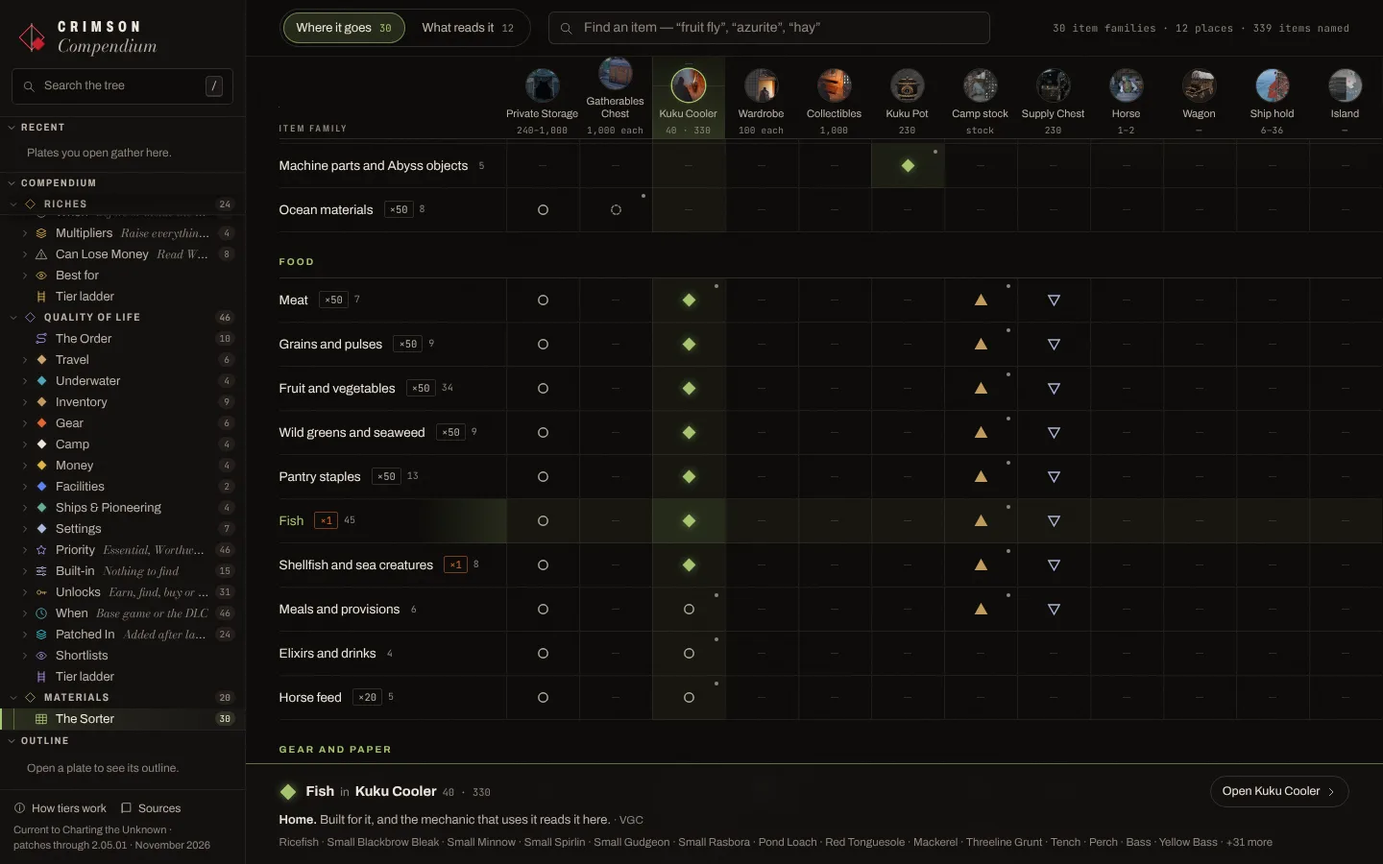
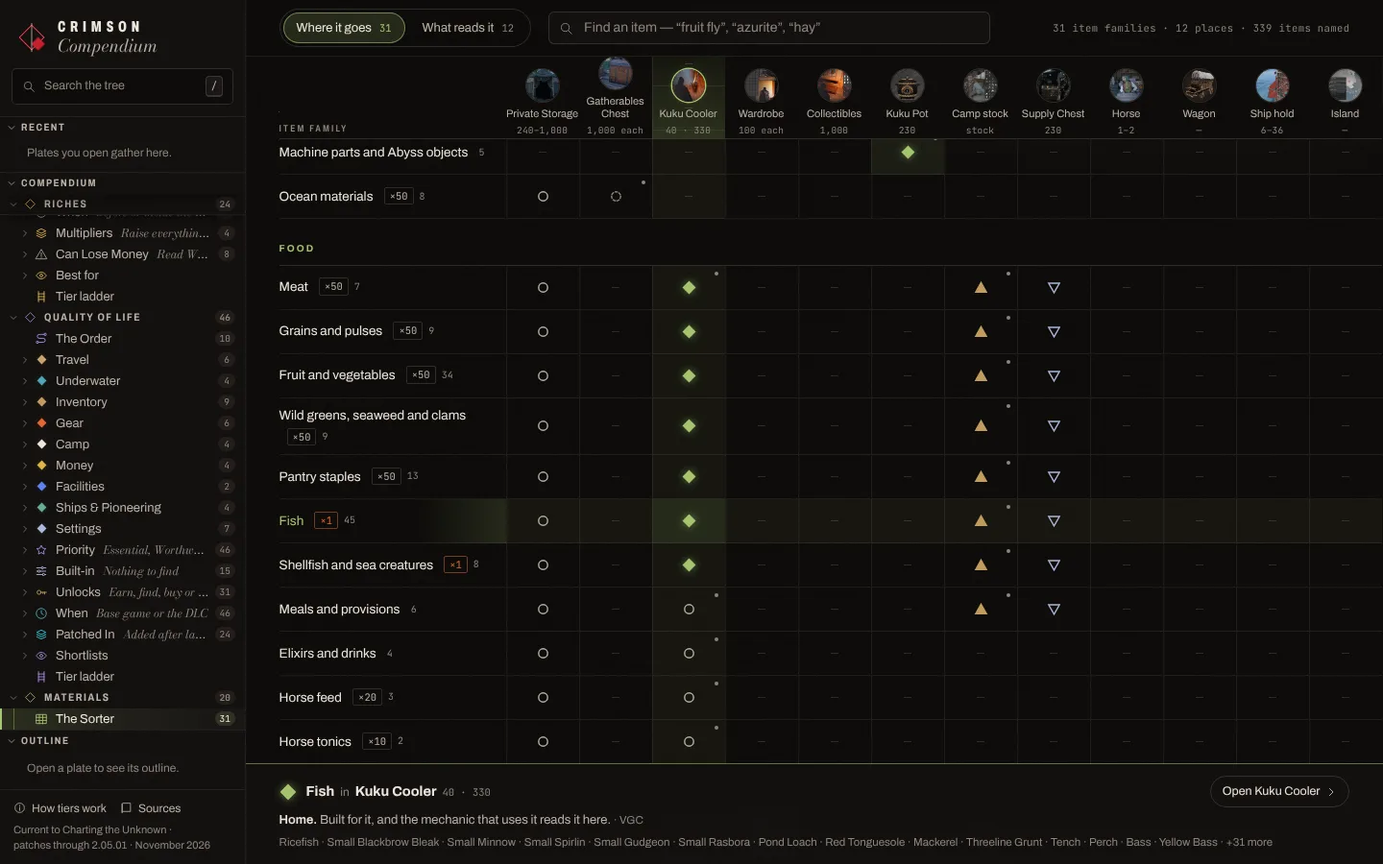
Fix review findings on the Materials tree
- A click now pins a Sorter cell: keyboard focus pins, a mouse click toggles.
- An item picked in the palette opens the Sorter on the sheet that names it,
  even when the reader was on a sheet with no items.
- The palette offers item families by name as well as their items.
- Refused families leave a store's shelves for a "Won't go in" list.
- Stacks: per-item stacks where an item differs (Azurite 49, Abyss
  Artifacts 10); horse tonics (10) split from horse feed (20); the Horse
  Feed plate lists grains and fruit too. Gamer Guides confirms mushrooms
  stack to 50 and lists 8 shellfish (the Razor Clam stacks to 50); the
  research notes are corrected.
- Recent and the explorer filter count tell same-id plates apart.
- Search answers and shelves shrink to a 320 px phone.
- verify compares every matrix row, column and mark, and the phone cards,
  against the data, and checks the pin and the palette hand-off from a
  sheet with no items.

Claude-Session: https://claude.ai/code/session_01CDNBdZ3zCesRifz13JDxvR

diff --git a/src/branches/materials/MaterialsManifest.svelte b/src/branches/materials/MaterialsManifest.svelte
@@ -50,13 +50,16 @@
   const readHere = $derived(readBy.filter((x) => x.mark === 'draw'));
   const readOther = $derived(readBy.filter((x) => x.mark !== 'draw'));
 
-  // the shelves: every family the Sorter puts here, grouped by mark in the legend's order
+  // the shelves: every family the Sorter puts here, grouped by mark in the legend's order. A family a source
+  // says is refused is not on a shelf: it is listed apart, with why
   const shelves = $derived.by(() => {
     if (!col || !where || !m) return [];
     return m.marks
+      .filter((mk) => mk.id !== 'no')
       .map((mk) => ({ mark: mk, rows: where.rows.filter((r) => markOf(r.cells[col.id]) === mk.id) }))
       .filter((s) => s.rows.length);
   });
+  const refused = $derived(col && where ? where.rows.filter((r) => markOf(r.cells[col.id]) === 'no') : []);
   // a supply's own families, each with every place that keeps them
   const supplies = $derived.by(() => {
     if (col || !where || !m || !man?.rows?.length) return [];
@@ -194,7 +197,7 @@
                       {#if noteOf(cell) ?? r.note}<p class="fn">{noteOf(cell) ?? r.note}</p>{/if}
                       {#if items.length}
                         <ul class="items">
-                          {#each all ? items : items.slice(0, CAP) as it (it)}<li class:lit={!!t && norm(it).includes(t)}>{it}</li>{/each}
+                          {#each all ? items : items.slice(0, CAP) as it (it)}<li class:lit={!!t && norm(it).includes(t)}>{it}{#if r.stackOf?.[it]}<span class="ist mono" class:hog={r.stackOf[it] === 1}>×{r.stackOf[it]}</span>{/if}</li>{/each}
                           {#if !all && items.length > CAP}
                             <li class="more"><button type="button" onclick={() => (open[r.id] = true)}>+{items.length - CAP} more</button></li>
                           {/if}
@@ -209,6 +212,18 @@
           {#if t && !matched && !shelves.some((s) => s.rows.some(hit))}
             <p class="miss">Nothing by that name goes in {entry.name}. <a href={href.matrix(branch)}>Ask the Sorter</a> where it does.</p>
           {/if}
+        </div>
+      {/if}
+
+      {#if refused.length}
+        <div class="block">
+          <p class="eyebrow">Won't go in</p>
+          <ul class="refused">
+            {#each refused as r (r.id)}
+              {@const cell = r.cells[col.id]}
+              <li><Mark id="no" size={14} /><span class="fl">{r.label}</span>{#if noteOf(cell)}<span class="rn">{noteOf(cell)}</span>{/if}<span class="by">{pub(byOf(r, cell))}</span></li>
+            {/each}
+          </ul>
         </div>
       {/if}
 
@@ -246,7 +261,7 @@
                 <span class="fl">{s.row.label}</span>
                 {#if s.row.stack}<span class="st mono" class:hog={s.row.stack === 1}>{stackTxt(s.row)}</span>{/if}
               </div>
-              {#if s.row.items?.length}<ul class="items">{#each s.row.items as it (it)}<li>{it}</li>{/each}</ul>{/if}
+              {#if s.row.items?.length}<ul class="items">{#each s.row.items as it (it)}<li>{it}{#if s.row.stackOf?.[it]}<span class="ist mono">×{s.row.stackOf[it]}</span>{/if}</li>{/each}</ul>{/if}
               {#if s.at.length}
                 <ul class="kept">
                   {#each s.at as a (a.col.id)}
@@ -401,13 +416,11 @@
   .shelf-head :global(.mk) { align-self: center; }
   .shelf-head b { font-size: 12px; letter-spacing: 0.14em; text-transform: uppercase; color: var(--bone); font-weight: 600; }
   .shelf[data-mark='home'] .shelf-head b { color: var(--accent); }
-  .shelf[data-mark='no'] .shelf-head b { color: var(--ember); }
   .shelf-head span { font-size: 12.5px; color: var(--ash); }
-  .fams { display: grid; grid-template-columns: repeat(auto-fill, minmax(280px, 1fr)); gap: 10px; margin-bottom: 8px; }
+  .fams { display: grid; grid-template-columns: repeat(auto-fill, minmax(min(100%, 280px), 1fr)); gap: 10px; margin-bottom: 8px; }
   .fams > li { padding: 10px 12px 12px; background: var(--ink-1); border: 1px solid var(--line); animation: up 520ms var(--ease-out) both; animation-delay: calc(var(--i) * 40ms); min-width: 0; }
   .shelf[data-mark='home'] .fams > li { border-color: color-mix(in srgb, var(--accent) 35%, var(--line)); box-shadow: inset 2px 0 0 var(--accent); }
   .shelf[data-mark='unk'] .fams > li { border-style: dashed; }
-  .shelf[data-mark='no'] .fams > li { border-color: color-mix(in srgb, var(--ember) 40%, var(--line)); }
   .fam { display: flex; align-items: baseline; gap: 8px; }
   .fl { font-size: 14px; color: var(--bone); flex: 1; min-width: 0; }
   .st { font-size: 11px; color: var(--bone-2); padding: 1px 5px; border: 1px solid var(--line-2); }
@@ -417,6 +430,15 @@
   .items { display: flex; flex-wrap: wrap; gap: 4px; margin-top: 8px; }
   .items li { font-size: 11.5px; line-height: 1; padding: 4px 7px; border: 1px solid var(--line); color: var(--bone-2); white-space: nowrap; }
   .items li.lit { color: var(--ink-0); background: var(--accent); border-color: var(--accent); }
+  .ist { margin-left: 5px; font-size: 10px; color: var(--ash); }
+  .ist.hog { color: var(--ember); }
+  .items li.lit .ist { color: inherit; }
+  .refused { display: flex; flex-direction: column; gap: 8px; }
+  .refused li { display: grid; grid-template-columns: 16px minmax(0, 1fr) auto; grid-template-areas: 'm l b' '. n n'; gap: 2px 10px; align-items: center; padding: 10px 12px; border: 1px solid color-mix(in srgb, var(--ember) 40%, var(--line)); background: var(--ink-1); }
+  .refused li :global(.mk) { grid-area: m; }
+  .refused .fl { grid-area: l; }
+  .refused .rn { grid-area: n; }
+  .refused .by { grid-area: b; }
   .items .more { padding: 0; border: 0; }
   .items .more button { font: inherit; font-size: 11.5px; padding: 4px 7px; border: 1px dashed var(--line-2); background: none; color: var(--accent); cursor: pointer; }
   .items .more button:hover { border-color: var(--accent); }

diff --git a/src/ui/Matrix.svelte b/src/ui/Matrix.svelte
@@ -7,7 +7,7 @@
   import { app } from '../core/state.svelte';
   import { href, mediaUrl } from '../core/tree';
   import { PUBLISHERS } from '../core/format';
-  import type { Branch, MatrixCell, MatrixCol, MatrixRow } from '../core/types';
+  import type { Branch, MatrixCell, MatrixCol, MatrixRow, MatrixSheet } from '../core/types';
   import Glyph from './Glyph.svelte';
   import Mark from './Mark.svelte';
 
@@ -20,9 +20,19 @@
   const searchable = $derived(sheet.rows.some((r) => r.items?.length));
   const itemCount = $derived(sheet.rows.reduce((n, r) => n + (r.items?.length ?? 0), 0));
 
-  // the palette can hand over an item to look up; take it once
+  // the palette can hand over an item to look up; take it once, on the sheet that names it (the reader may
+  // be on a sheet with no items, and this view stays mounted while the branch does)
   let q = $state(app.matrixQuery);
-  $effect(() => { if (app.matrixQuery) { q = app.matrixQuery; app.matrixQuery = ''; } });
+  $effect(() => {
+    const want = app.matrixQuery;
+    if (!want) return;
+    const named = (sh: MatrixSheet) => sh.rows.some((r) => r.items?.some((i) => norm(i) === norm(want)));
+    const withItems = (sh: MatrixSheet) => sh.rows.some((r) => r.items?.length);
+    const target = m.sheets.find(named) ?? m.sheets.find(withItems);
+    if (target && target.id !== sheet.id) sheetId = target.id;
+    q = want;
+    app.matrixQuery = '';
+  });
 
   const markOf = (c?: MatrixCell) => (!c ? '' : typeof c === 'string' ? c : c.mark);
   const noteOf = (c?: MatrixCell) => (c && typeof c === 'object' ? c.note : undefined);
@@ -102,6 +112,8 @@
   });
 
   const stackLabel = (r: MatrixRow) => (r.stack ? `×${r.stack}` : '');
+  /** an item's stack: its own where it differs from the family's */
+  const stackOf = (r: MatrixRow, item: string) => r.stackOf?.[item] ?? r.stack;
   /** "item family" → "item families", "mechanic" → "mechanics" */
   const plural = (w: string, n: number) => (n === 1 ? w : /[^aeiou]y$/.test(w) ? `${w.slice(0, -1)}ies` : /(s|x|ch|sh)$/.test(w) ? `${w}es` : `${w}s`);
 </script>
@@ -145,10 +157,11 @@
     <div class="answers" aria-live="polite">
       {#each answers as r (r.id)}
         {@const got = matches.get(r.id) ?? []}
+        {@const st = got.length === 1 ? stackOf(r, got[0]) : r.stack}
         <div class="answer">
           <p class="what">
             {#if got.length}<b>{got.slice(0, 3).join(', ')}{got.length > 3 ? ` +${got.length - 3}` : ''}</b><span class="arrow">→</span>{/if}
-            <span class="fam">{r.label}</span>{#if r.stack}<span class="stk mono" class:hog={r.stack === 1}>{stackLabel(r)}</span>{/if}
+            <span class="fam">{r.label}</span>{#if st}<span class="stk mono" class:hog={st === 1} title={st === 1 ? 'Does not stack: each one takes a slot' : `${st} to a slot`}>×{st}</span>{/if}
           </p>
           <ul class="where">
             {#each placements(r) as p (p.mark.id)}
@@ -213,7 +226,11 @@
                   aria-label="{r.label} in {c.label}: {mk ? markDef(mk)?.label : 'no source puts it here'}{noteOf(r.cells[c.id]) ? `. ${noteOf(r.cells[c.id])}` : ''}"
                   aria-pressed={pinned?.r === l.i && pinned?.c === ci}
                   onmouseenter={() => (hover = { r: l.i, c: ci })}
-                  onfocus={() => { focus = { r: l.i, c: ci }; hover = null; pinned = { r: l.i, c: ci }; }}
+                  onfocus={(ev) => {
+                    focus = { r: l.i, c: ci };
+                    // keyboard focus pins the cell; a mouse press focuses too, and its click does the pinning
+                    if (ev.currentTarget.matches(':focus-visible')) { hover = null; pinned = { r: l.i, c: ci }; }
+                  }}
                   onclick={() => pick(l.i, ci)}
                 >
                   {#if mk}<Mark id={mk} />{/if}
@@ -259,7 +276,7 @@
         {#if mk}<span class="by">· {PUBLISHERS[byOf(atRow, atCell)] ?? byOf(atRow, atCell)}</span>{/if}
       </p>
       {#if atRow.items?.length}
-        <p class="ro-items">{atRow.items.slice(0, 14).join(' · ')}{atRow.items.length > 14 ? ` · +${atRow.items.length - 14} more` : ''}</p>
+        <p class="ro-items">{atRow.items.slice(0, 14).map((i) => (atRow.stackOf?.[i] ? `${i} ×${atRow.stackOf[i]}` : i)).join(' · ')}{atRow.items.length > 14 ? ` · +${atRow.items.length - 14} more` : ''}</p>
       {:else if atRow.note}
         <p class="ro-items">{atRow.note}</p>
       {/if}
@@ -327,7 +344,7 @@
   .sheet-blurb { max-width: 92ch; margin: 12px 0 8px; font-size: 13.5px; line-height: 1.55; color: var(--bone-2); }
 
   /* ── search answers ── */
-  .answers { display: grid; grid-template-columns: repeat(auto-fill, minmax(320px, 1fr)); gap: 10px; margin: 6px 0 16px; }
+  .answers { display: grid; grid-template-columns: repeat(auto-fill, minmax(min(100%, 320px), 1fr)); gap: 10px; margin: 6px 0 16px; }
   .answer { padding: 12px 14px; border: 1px solid color-mix(in srgb, var(--accent) 40%, transparent); background: linear-gradient(110deg, var(--accent-dim), var(--ink-1) 75%); box-shadow: inset 2px 0 0 var(--accent); animation: rise 420ms var(--ease-out) both; }
   .what { display: flex; flex-wrap: wrap; align-items: baseline; gap: 6px 8px; font-size: 14px; color: var(--bone); }
   .what b { font-weight: 600; }

diff --git a/src/ui/Explorer.svelte b/src/ui/Explorer.svelte
@@ -33,7 +33,8 @@
       .filter((x): x is { b: Branch; e: Entry } => !!x)
       .slice(0, 5),
   );
-  const current = $derived(view.kind === 'entry' ? view.entry.id : '');
+  // the open plate, by branch and id: two branches can share an id (QOL's and Materials' Private Storage)
+  const current = $derived(view.kind === 'entry' ? view.entry : undefined);
 </script>
 
 <nav class="spine" class:open aria-label="Compendium explorer">
@@ -60,7 +61,7 @@
         <ol class="recent">
           {#each recent as { b, e } (b.id + "/" + e.id)}
             <li animate:flip={{ duration: app.reducedMotion ? 0 : 260 }}>
-              <a class="rrow" class:on={e.id === current} href={href.entry(b, e.id)} data-cls={e.cls} data-accent={leafOf(b, e).accent} onclick={onnavigate}>
+              <a class="rrow" class:on={e === current} href={href.entry(b, e.id)} data-cls={e.cls} data-accent={leafOf(b, e).accent} onclick={onnavigate}>
                 <span class="pt"><img src={mediaUrl(e.media.portrait.src)} alt="" /></span>
                 <span class="nm">{e.name}</span>
                 <span class="lf">{leafOf(b, e).label}</span>

diff --git a/src/ui/Palette.svelte b/src/ui/Palette.svelte
@@ -25,10 +25,18 @@
     const t = q.trim().toLowerCase();
     return t ? jumps.filter((j) => j.label.toLowerCase().split(/[\s:]+/).some((w) => w.startsWith(t)) || j.label.toLowerCase().startsWith(t)) : [];
   });
-  // item names a branch's matrix knows (the Sorter's item families): opening one shows where it goes
+  // what a branch's matrix knows by name (the Sorter's items, and the families they belong to): opening one
+  // shows where it goes. A family is offered by its own name ("fish", "horse feed") as well as its items'
   const items = $derived(
     tree.branches.flatMap((b) =>
-      (b.matrix?.sheets ?? []).flatMap((sh) => sh.rows.flatMap((r) => (r.items ?? []).map((item) => ({ item, row: r.label, branch: b })))),
+      (b.matrix?.sheets ?? []).flatMap((sh) =>
+        sh.rows
+          .filter((r) => r.items?.length)
+          .flatMap((r) => [
+            ...r.items!.map((item) => ({ item, row: r.label, branch: b })),
+            { item: r.label, row: sh.rowLabel.toLowerCase(), branch: b },
+          ]),
+      ),
     ),
   );
   const itemHits = $derived.by(() => {

diff --git a/src/core/types.ts b/src/core/types.ts
@@ -257,8 +257,10 @@ export interface MatrixRow {
   label: string;
   /** rows sharing a group sit together under its name */
   group?: string;
-  /** items per slot */
+  /** items per slot, for the family */
   stack?: number;
+  /** items whose stack differs from the family's (Azurite 49 among ores at 50), or the only ones known */
+  stackOf?: Record<string, number>;
   /** the item names this row covers; the matrix search matches them */
   items?: string[];
   note?: string;
@@ -297,7 +299,8 @@ export interface BranchDef {
   labels?: BranchLabels;
   route?: RouteDef;
   matrix?: MatrixDef;
-  /** which view the branch root opens: the matrix, the route, or (absent) the route if any, else the first leaf */
+  /** which view the branch root opens: the matrix or the route. Absent: the route if there is one, else the
+   *  matrix if there is one, else the first leaf (tree.ts frontOf) */
   front?: 'matrix' | 'route';
   singular: string;
   /** plural noun for counts and empty states ("Mounts") */

diff --git a/src/branches/registry.ts b/src/branches/registry.ts
@@ -103,6 +103,7 @@ function matrix(m: MatrixDef, byId: Map<string, Entry>, fail: (where: string, ms
     for (const r of sh.rows) {
       if (rows.has(r.id)) fail(`matrix/${sh.id}/${r.id}`, 'duplicate row id');
       rows.add(r.id);
+      for (const it of Object.keys(r.stackOf ?? {})) if (!r.items?.includes(it)) fail(`matrix/${sh.id}/${r.id}`, `stackOf names "${it}", which is not one of the row's items`);
       for (const [c, cell] of Object.entries(r.cells)) {
         if (!shown.has(c)) fail(`matrix/${sh.id}/${r.id}`, `cell in column "${c}", which the sheet does not show`);
         const mk = typeof cell === 'string' ? cell : cell.mark;

diff --git a/src/ui/ExplorerTree.svelte b/src/ui/ExplorerTree.svelte
@@ -30,7 +30,7 @@
   let q = $state('');
   const rows = $derived(flatten(roots, expanded, filtering ? q.trim() : ''));
   const at = $derived(new Map(rows.map((r, i) => [r.node.key, i])));
-  const matchCount = $derived(filtering && q.trim() ? new Set(rows.filter((r) => r.hits && r.node.entry).map((r) => r.node.entry!.id)).size : 0);
+  const matchCount = $derived(filtering && q.trim() ? new Set(rows.filter((r) => r.hits && r.node.entry).map((r) => r.node.entry!)).size : 0);
 
   const selectedKey = $derived(activeKey(view, ctx, nodes));
   let focusKey = $state('');

diff --git a/DESIGN.md b/DESIGN.md
@@ -266,10 +266,10 @@ You asked for Materials on 2026-11-21: a tree that speeds up the game's cluttere
 - **What makes items convoluted** (from the research, not your brief). Thirteen places hold items, and each takes different families. Different mechanics read different places: the Smithy reads the 1.04 Gatherables Chest, cooking reads the Kuku Cooler, the camp's missions and ship builds read only Carl's donated stock, and nothing reads Private Storage. Stacks run from 1 to 100, so an insect or a fish fills a slot on its own. Patches move items between classes (1.16 made mushrooms alchemy materials). A plate per chest can't answer "where does this go?", so the tree opens on a grid that can.
 - **Where it sits.** A fourth root (`#materials…`), `src/branches/materials/`. The noun is *Manifest* *(my call)*. Its accent is a new `--moss` (#a3c46c, 10.2:1 on ink-0), the one green no class, leaf or root uses. Leaves keep accents already meaning the same thing: House brass (the Inventory leaf's), Ship deck (ships), Mount land.
 - **The front door is the Sorter, not a route** *(my call)*. `#materials` opens a matrix of item families against every place that holds items, on two sheets:
-  - *Where it goes*: 30 item families against 12 places, with 339 items and item types named. Names and stack sizes follow Gamer Guides' database where it lists them.
+  - *Where it goes*: 31 item families against 12 places, with 339 items and item types named. Names and stack sizes follow Gamer Guides' database where it lists them. A family holds one stack size; an item that differs carries its own (`stackOf`: Azurite 49 among ores at 50), and a family whose items differ is split (horse feed at 20, tonics at 10).
   - *What reads it*: 12 mechanics (crafting, cooking, alchemy, Kuku crafting, camp builds, packing, selling, feeding, outfits, quests) against the same places plus your bag.
   - *Marks*, each a shape, so they read apart without colour: ◆ Home (built for it, and read there), ↘ Read here, ○ Fits, ▲ Donate (one-way into the camp's stock), ▼ Arrives (receive-only: the Supply Chest), dashed ○ Reported (one source, unconfirmed), ✕ Refused. A blank cell means no source puts it there; the plates never infer one.
-  - *Use*: the column heads are the plates (portrait, name, slots) and stay pinned with the toolbar; the row heads stay pinned left. Hover or arrow keys draw a crosshair, and a readout pinned to the bottom says what the cell means, why, who says so, the row's items by name, and links the plate. Click pins it. A search finds the family an item belongs to and answers in one card (*Fruit Fly → Insects ×1: Fits Private Storage, Donate Camp stock, Arrives Supply Chest, Reported Gatherables Chest*). The command palette now knows every item, so `/`, "azurite" and picking the item opens the Sorter on that answer. On a phone the grid becomes one card per family.
+  - *Use*: the column heads are the plates (portrait, name, slots) and stay pinned with the toolbar; the row heads stay pinned left. Hover or arrow keys draw a crosshair, and a readout pinned to the bottom says what the cell means, why, who says so, the row's items by name, and links the plate. Click pins it. A search finds the family an item belongs to and answers in one card (*Fruit Fly → Insects ×1: Fits Private Storage, Donate Camp stock, Arrives Supply Chest, Reported Gatherables Chest*). The command palette now knows every item and family, so `/`, "azurite" and picking the item opens the Sorter on that answer. On a phone the grid becomes one card per family.
 - **The Set-up Order** (`#materials-route`): six phases by when the story opens each store, from the first chest (Chapters I–II) to holds and islands (the DLC), each naming what to move in the moment it opens. It reuses the route view.
 - **No categories or lenses** *(my call)*. With 20 plates the Sorter does the cross-cutting job a category would, and the explorer stays short: The Sorter, Set-up Order, three leaves, Tier ladder.
 - **Plates.** House Storage (8): Sturdy Gatherables Chest, Kuku Cooler, Private Storage, Wardrobe, Collectibles Chest, Kuku Pot, Camp Provisions, Supply Chest. Ship Storage (7): Ship Holds, Shipbuilding Stock, Ship Fittings, Sea Blueprints, Ocean Materials, Ship Teleportation Device, Island Storage. Mount Storage (5): Horse Trade Slots, Wagon Cargo, Horse Feed, Horse Tack Materials, Kuku Mount Gear. Six take their how-to from a QOL, Riches or Mounts plate through `base`, so nothing is written twice.
@@ -281,6 +281,7 @@ You asked for Materials on 2026-11-21: a tree that speeds up the game's cluttere
 - **Manifest** (`MaterialsManifest.svelte`). A store's shelves and its *Read in place by* list are read off the Sorter's own rows, not written per plate, so the plate and the grid can't disagree. A plate shows:
   - capacity, with its basis, beside what reads the store in place (and what a source says doesn't);
   - *What goes in*: shelves by mark, each family with its stack (×1 in ember, every one a slot) and every item by name, with a filter;
+  - *Won't go in*: families a source says the store refuses, with why, kept off the shelves;
   - *Doesn't go here — goes to*: every other family grouped by the place built for it, or where it fits when nothing is;
   - for a supply, its families and every place that keeps them;
   - *Each one's hold*: Mounts plates grouped by hold size, read from the Mounts data (ships 6–36, horses 1–2, five ships unpublished);

diff --git a/docs/MATERIALS-RESEARCH.md b/docs/MATERIALS-RESEARCH.md
@@ -12,7 +12,7 @@ The players' complaint, as reported, and what the mechanics show:
 | Even after the 1.04 chests, PC Gamer called the inventory chaotic and wished for a single chest | news · PC Gamer |
 | A recipe needs three things: the learned recipe, the right material class and the station the recipe names. "Most cannot-craft problems are the wrong station or a material stored in the wrong container" | guide · Console Pulse |
 | Items are sorted into 35 in-game categories (Abyss Artifacts to Two-Handed Weapons); Crafting and Refinement Materials, Alchemy Materials, Fish, both weapon classes and Tools clutter fastest | guide · Vulkk |
-| Stacks run 1 to 100. Materials and ingredients stack to 50; Abyss Artifacts to 10; horse feed to 20 (tonics 10); every one of the 82 insects and small creatures and the 45 fish and 10 shellfish stack to 1 | guide · Vulkk, Gamer Guides database |
+| Stacks run 1 to 100. Materials and ingredients stack to 50; Abyss Artifacts to 10; horse feed to 20 (tonics 10); every one of the 82 insects and small creatures, the 45 fish and the 8 shellfish and sea creatures stacks to 1 (the Razor Clam, filed with ingredients, stacks to 50) | guide · Vulkk, Gamer Guides database |
 | Items move between classes: 1.16 made mushrooms alchemy materials instead of cooking ingredients; 1.11 made Kuku Bird and Wyvern eggs stop stacking | patch · All Things How, GamingBolt |
 | Key Items cannot be sold, discarded or grouped, and hold their slot | guide · The Games Wiki |
 | The 1.04 tabs: All, Documents, Equipment, Food, Materials and Others (the note says "5 categories" and lists six). Private Storage was promised the same tabs "in the near future" | patch · VGC (1.04 notes verbatim) |
@@ -63,10 +63,10 @@ Names and stack sizes from the Gamer Guides database (ingredients, ores, alchemy
 - **Hides and bones**: Thin, Thick, Short Hair, Long Hair and Sturdy Hide; Small and Large Bone; Fang. Leather armour and jewellery.
 - **Cloth, fur and feathers**: Cloth Piece, Fleece, Feather, Ivory, Spider Web. Soft armour and cloaks.
 - **Reagents**: Brimstone, Mercury, Rubber, Gunpowder, Electrical Components, Acidic Spider Venom.
-- **Herbs and flowers** (stack 50, 26 names) and **mushrooms** (5, alchemy since 1.16).
+- **Herbs and flowers** (stack 50, 25 names) and **mushrooms** (5 names, stack 50, alchemy since 1.16).
 - **Insects and small creatures** (stack 1, 82 names).
 - **Ingredients** (stack 50): 7 meats, 9 grains and pulses, 19 fruits, 18 vegetables, wild greens and seaweed, honey and beehives, dairy and eggs, staples (Salt, Sugar, Water, Cooking Oil), Fish Fillet.
-- **Fish and shellfish** (stack 1): 45 fish, 10 shellfish and sea creatures.
+- **Fish and shellfish** (stack 1): 45 fish, 8 shellfish and sea creatures.
 - **Horse feed**: Hay, Sugar Beet, Sugar Cubes (20); Horse Tonic, Horse Stimulant (10).
 - **Abyss**: Abyss Artifacts (stack 10), Aeserion's Scale, Abyss Cell.
 

diff --git a/CHANGELOG.md b/CHANGELOG.md
@@ -7,8 +7,8 @@ All notable changes to the Crimson Compendium. Versions follow [Semantic Version
 ### Added
 
 - **Materials**, a fourth branch: where every item goes and what reads it, across 20 plates in House Storage, Ship Storage and Mount Storage.
-  - **The Sorter** (`#materials`, the front door): 30 item families against 12 places that hold items, and 12 mechanics against the places they read. Seven shape-coded marks (Home, Read here, Fits, Donate, Arrives, Reported, Refused). Pinned column heads with each place's portrait and slots, a crosshair and a readout that explains any cell with its source, keyboard navigation, and an item search that answers where an item goes in one card. On a phone, one card per family.
-  - **Search any item from the palette**: `/` now knows the 339 items and item types the Sorter names, and picking one opens the Sorter on it.
+  - **The Sorter** (`#materials`, the front door): 31 item families against 12 places that hold items, and 12 mechanics against the places they read. Seven shape-coded marks (Home, Read here, Fits, Donate, Arrives, Reported, Refused). Pinned column heads with each place's portrait and slots, a crosshair and a readout that explains any cell with its source, keyboard navigation, and an item search that answers where an item goes in one card. On a phone, one card per family.
+  - **Search any item from the palette**: `/` now knows the 339 items and item types the Sorter names, and their families, and picking one opens the Sorter on it, on the sheet that names it.
   - **The Set-up Order**: six phases, by when the story opens each store, with what to move in.
   - **Manifest** on every plate: capacity beside what reads the store in place; the shelves of what goes in, by mark, with every item by name and a filter; where everything else goes instead; hold sizes from the Mounts plates; bills of materials; figures with their basis; tips, patch history and what to watch out for.
   - Plates include the Wardrobe, Collectibles Chest, Kuku Pot, Camp Provisions and Supply Chest; ship holds, shipbuilding stock, both outfitters' parts, the four hidden sea blueprints, ocean materials and Island Storage; horse trade slots, wagon cargo, horse feed, the Wells Military tack and Kuku mount gear.
@@ -23,7 +23,7 @@ All notable changes to the Crimson Compendium. Versions follow [Semantic Version
 
 ### Fixed
 
-- Lists keyed by plate id alone (search results, Recent, cross-links) broke when two branches shared an id; they now key by branch and plate.
+- Lists keyed by plate id alone (search results, Recent, cross-links) broke when two branches shared an id; they now key by branch and plate, and Recent and the explorer filter count tell same-id plates apart.
 
 ## [0.3.0] — 2026-11-21
 

diff --git a/docs/PLAN.md b/docs/PLAN.md
@@ -26,7 +26,7 @@ A milestone is delivered when its TODO is complete, `npm run verify` and CI are 
 | M3 | Where, for every mount | map and on-site captures and full-bleed heroes for the whole roster | delivered: 29 plates gained maps and 10 gained banners; every plate still without one is listed with its reason; see `DESIGN.md` › Revision 5 |
 | Q1 | Quality of Life tree | a third root: guides to every mechanic that improves quality of life, a computed Priority list, the Order, and one home per how-to across branches | delivered: 39 upgrades; see `DESIGN.md` › Quality of Life tree |
 | Q2 | Mount inventory and the 2.05.01 sweep | what every mount carries and wears; settings plates on the current menu; every patch through 2.05.01 checked for convenience features | delivered: Inventory on all 80 mount plates, 23 more Records, 7 new upgrades, re-blockades and settings rebuilt; see `DESIGN.md` › Revision 6 and › Q2 |
-| MT1 | Materials tree | a fourth root: where every item goes and what reads it, across house, ship and mount storage, in a sortable grid and 20 plates | delivered: the Sorter (2 sheets, 30 families, 12 mechanics), the Set-up Order, 20 manifests; see `DESIGN.md` › Materials tree |
+| MT1 | Materials tree | a fourth root: where every item goes and what reads it, across house, ship and mount storage, in one grid and 20 plates | delivered: the Sorter (2 sheets, 31 families, 12 mechanics), the Set-up Order, 20 manifests; see `DESIGN.md` › Materials tree |
 | M4 | Ratings on evidence | no rating defaults to III for lack of data | in progress → `SHELVED.md` › M4 |
 | M5 | Compare and navigate *(proposal)* | compare mounts side by side, section links, keyboard sheet, explorer split | shelved → `SHELVED.md` › M5 |
 | R2 | Riches depth | all 18 facilities with location and staff skill, island upgrades and income once sources publish them, a trade-route table | shelved → `SHELVED.md` › R2 |
